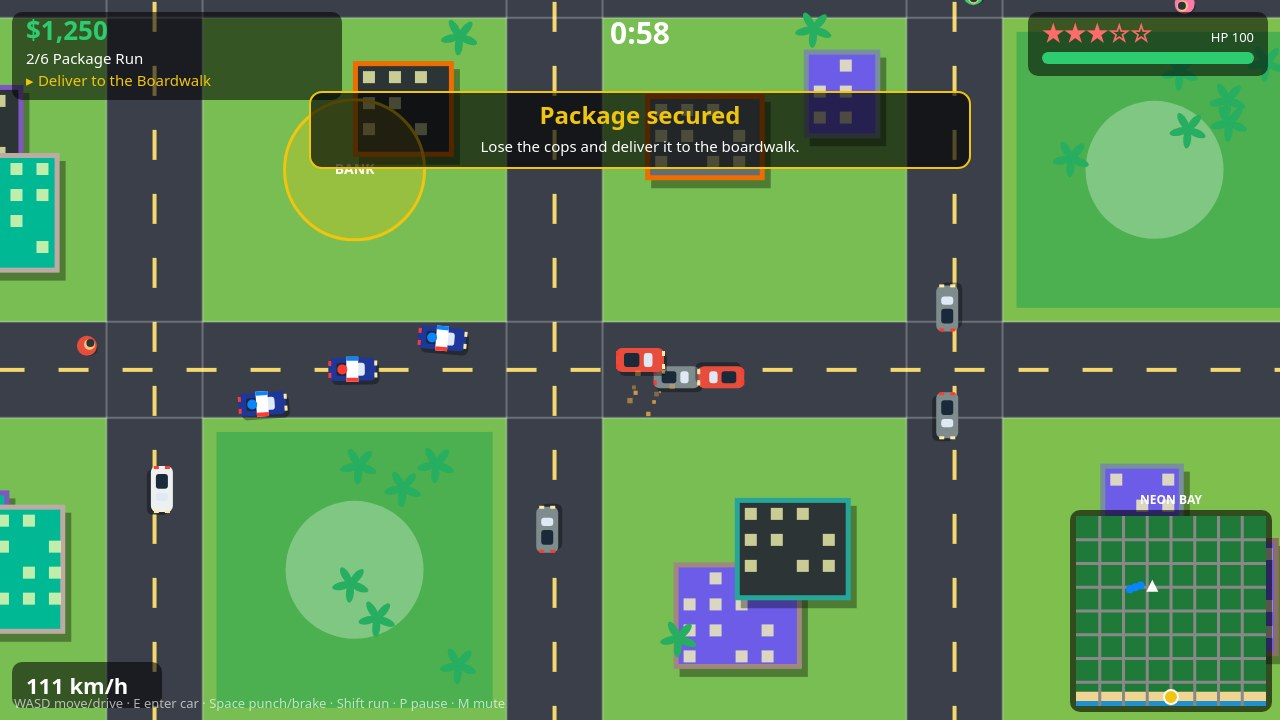
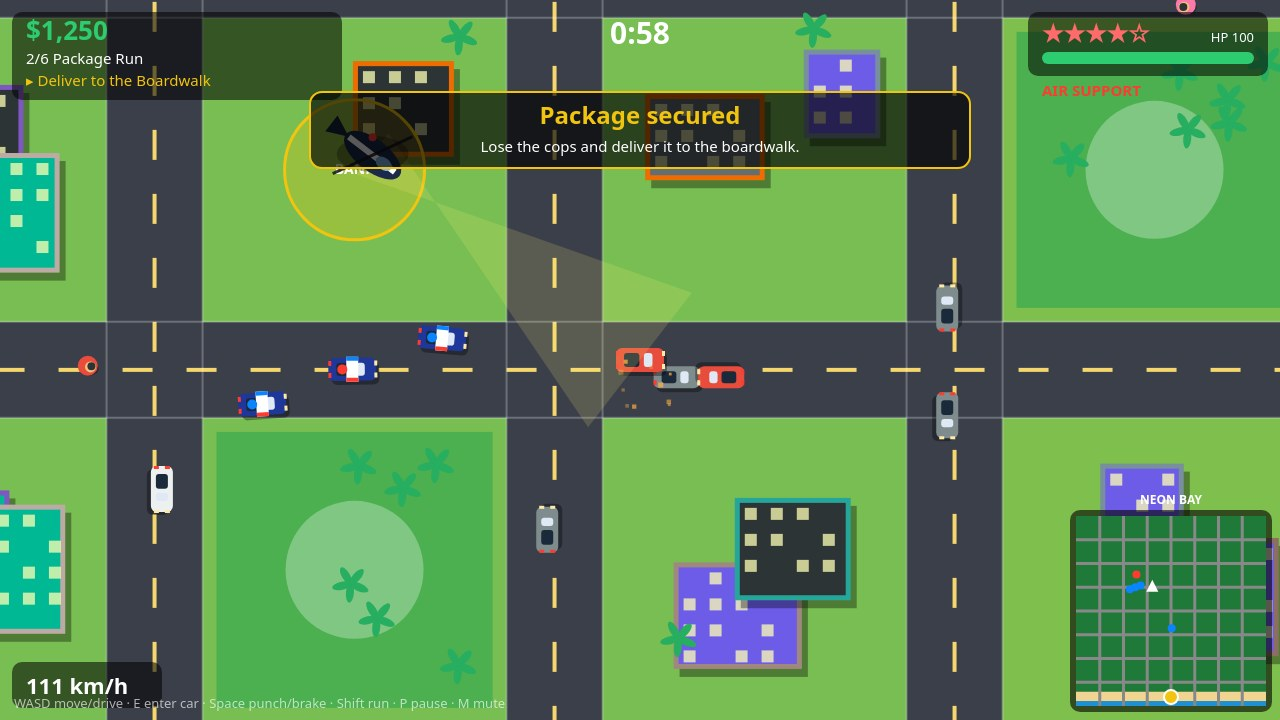
Neon Bay Heist round 2: police helicopter air support at 4-5 stars

diff --git a/game/src/render.js b/game/src/render.js
@@ -296,6 +296,8 @@ export class Renderer {
     } else if (pl.car) {
       drawCarShape(ctx, pl.x, pl.y, pl.angle, 48, 24, pl.car.color, false);
     }
+    // Police helicopters: top layer, above the player.
+    for (const h of game.helicopters) this.drawHelicopter(ctx, game, h);
     // Particles.
     for (const p of game.particles.list) {
       ctx.globalAlpha = clamp(p.life / p.max, 0, 1);
@@ -308,6 +310,70 @@ export class Renderer {
       this.text(t2.text, t2.x, t2.y, 20, t2.color, 'center', true);
     }
     ctx.globalAlpha = 1;
+  }
+
+  drawHelicopter(ctx, game, h) {
+    const pl = game.player;
+    const bob = Math.sin(h.bobPhase) * 6;
+    // Searchlight cone on the ground, from the helicopter toward the player.
+    const a = Math.atan2(pl.y - h.y, pl.x - h.x);
+    const perp = a + Math.PI / 2;
+    const nearW = 26;
+    const farW = 85;
+    const d = Math.hypot(pl.x - h.x, pl.y - h.y);
+    const ux = Math.cos(a);
+    const uy = Math.sin(a);
+    const px = Math.cos(perp);
+    const py = Math.sin(perp);
+    ctx.fillStyle = 'rgba(255, 235, 120, 0.16)';
+    ctx.beginPath();
+    ctx.moveTo(h.x + px * nearW, h.y + py * nearW);
+    ctx.lineTo(h.x - px * nearW, h.y - py * nearW);
+    ctx.lineTo(h.x + ux * d + px * farW, h.y + uy * d + py * farW);
+    ctx.lineTo(h.x + ux * d - px * farW, h.y + uy * d - py * farW);
+    ctx.closePath();
+    ctx.fill();
+    // Soft shadow ellipse on the ground.
+    ctx.fillStyle = 'rgba(0,0,0,0.28)';
+    ctx.beginPath();
+    ctx.ellipse(h.x, h.y, 36, 18, 0, 0, Math.PI * 2);
+    ctx.fill();
+    // Body: dark navy ellipse with tail fin and white stripe, bobbing in the air.
+    const by = h.y + bob;
+    ctx.save();
+    ctx.translate(h.x, by);
+    ctx.rotate(h.angle);
+    ctx.fillStyle = '#1b2a4a';
+    ctx.beginPath();
+    ctx.ellipse(0, 0, 34, 16, 0, 0, Math.PI * 2);
+    ctx.fill();
+    ctx.fillStyle = '#16223c';
+    ctx.beginPath();
+    ctx.moveTo(-30, 0);
+    ctx.lineTo(-52, -10);
+    ctx.lineTo(-52, 10);
+    ctx.closePath();
+    ctx.fill();
+    ctx.fillStyle = '#ffffff';
+    ctx.fillRect(-30, -3, 58, 6);
+    ctx.fillStyle = '#7fb8e8';
+    ctx.beginPath();
+    ctx.ellipse(14, 0, 9, 6, 0, 0, Math.PI * 2);
+    ctx.fill();
+    // Rotating rotor.
+    ctx.strokeStyle = 'rgba(20,20,30,0.85)';
+    ctx.lineWidth = 3;
+    ctx.beginPath();
+    ctx.moveTo(Math.cos(h.rotor) * -44, Math.sin(h.rotor) * -44);
+    ctx.lineTo(Math.cos(h.rotor) * 44, Math.sin(h.rotor) * 44);
+    ctx.stroke();
+    ctx.restore();
+    // Blinking red beacon.
+    const on = Math.sin(game.time * 8) > 0;
+    ctx.fillStyle = on ? '#ff3b30' : '#7a1f1a';
+    ctx.beginPath();
+    ctx.arc(h.x, by - 18, 4, 0, Math.PI * 2);
+    ctx.fill();
   }
 
   landmark(ctx, spot, color, label) {
@@ -354,6 +420,9 @@ export class Renderer {
     roundRect(ctx, CFG.canvasW - 238, 52, 212 * (p.health / CFG.maxHealth), 12, 6);
     ctx.fill();
     this.text(`HP ${Math.ceil(p.health)}`, CFG.canvasW - 26, 42, 13, '#ffffff', 'right');
+    if (game.helicopters.length > 0) {
+      this.text('AIR SUPPORT', CFG.canvasW - 238, 96, 15, '#ff3b30', 'left', true);
+    }
     // Mission timer.
     if (game.missions.phase === 'active' && game.missions.timer > 0) {
       const t = Math.ceil(game.missions.timer);
@@ -411,6 +480,12 @@ export class Renderer {
       ctx.fillStyle = '#0a84ff';
       ctx.beginPath();
       ctx.arc(x0 + pc.x * s, y0 + pc.y * s, 4, 0, Math.PI * 2);
+      ctx.fill();
+    }
+    for (const h of game.helicopters) {
+      ctx.fillStyle = '#ff3b30';
+      ctx.beginPath();
+      ctx.arc(x0 + h.x * s, y0 + h.y * s, 4, 0, Math.PI * 2);
       ctx.fill();
     }
     const p = game.player;
@@ -517,6 +592,7 @@ export class Renderer {
       'Space handbrake. Hitting pedestrians or cops raises heat.',
       'Police chase you while you have stars. Break line of sight',
       'to cool down, or reach the hideout with zero stars.',
+      'At 4 stars and above a police helicopter joins the chase — its searchlight keeps you spotted.',
       'Complete all 6 missions to own Neon Bay. Good luck, Dash.',
     ], [{ id: 'back', label: 'BACK' }]);
   }

diff --git a/game/src/main.js b/game/src/main.js
@@ -4,7 +4,7 @@
 import { CFG } from './config.js';
 import { Rng } from './random.js';
 import { City } from './world.js';
-import { Pedestrian, TrafficCar, PoliceCar } from './entities.js';
+import { Pedestrian, TrafficCar, PoliceCar, Helicopter } from './entities.js';
 import { Player } from './player.js';
 import { MissionManager } from './missions.js';
 import { Particles } from './particles.js';
@@ -26,6 +26,7 @@ export class Game {
     this.peds = [];
     this.traffic = [];
     this.police = [];
+    this.helicopters = [];
     this.particles = new Particles();
     this.sound = new SoundEngine();
     this.missions = new MissionManager(this);
@@ -69,6 +70,7 @@ export class Game {
   startNew() {
     this.player = new Player(this.city.garage.x + 120, this.city.garage.y + 40);
     this.police = [];
+    this.helicopters = [];
     this.particles = new Particles();
     this.missions = new MissionManager(this);
     this.state = 'playing';
@@ -206,6 +208,17 @@ export class Game {
     }
   }
 
+  updateHelicopters(dt) {
+    if (this.player.wanted >= 4) {
+      if (this.helicopters.length === 0) {
+        this.helicopters.push(new Helicopter(this.player.x - 300, this.player.y - 300, this.rng));
+      }
+    } else if (this.helicopters.length > 0) {
+      this.helicopters = [];
+    }
+    for (const h of this.helicopters) h.update(dt, this.player.x, this.player.y);
+  }
+
   update(dt) {
     this.time += dt;
     this.player.update(dt, this.input, this.city, this);
@@ -243,6 +256,7 @@ export class Game {
       }
     }
     this.updatePolice(dt);
+    this.updateHelicopters(dt);
     if (this.state !== 'playing') return;
     this.missions.update(dt);
     if (this.missionDelay > 0) {
@@ -323,8 +337,18 @@ export class Game {
       requestAnimationFrame(frame);
       acc += Math.min((now - last) / 1000, MAX_FRAME);
       last = now;
-      this.handleKeys();
-      this.handleMenuClick();
+      // If no fixed step will run this frame while playing, defer input
+      // handling to the next frame: endFrame() clears edge-triggered
+      // presses, so clearing on a step-less frame could drop a keypress
+      // (e.g. E to steal a car) before any update ever saw it. The gate
+      // uses the state at frame start: a press that flips paused -> playing
+      // must still be cleared on that same frame, or it would fire twice.
+      const wasPlaying = this.state === 'playing';
+      const willStep = wasPlaying && acc >= STEP;
+      if (!wasPlaying || willStep) {
+        this.handleKeys();
+        this.handleMenuClick();
+      }
       if (this.state === 'playing') {
         while (acc >= STEP) { this.update(STEP); acc -= STEP; }
       } else {
@@ -337,7 +361,7 @@ export class Game {
         }
       }
       this.renderer.draw(this);
-      this.input.endFrame();
+      if (!wasPlaying || willStep) this.input.endFrame();
     };
     requestAnimationFrame(frame);
   }

diff --git a/game/src/entities.js b/game/src/entities.js
@@ -116,3 +116,34 @@ export class PoliceCar {
     city.collideCircle(this, 20);
   }
 }
+
+// Police helicopter air support at wanted level 4-5. It hovers above the
+// player with lag and a searchlight; it never damages the player.
+export class Helicopter {
+  constructor(x, y, rng) {
+    this.x = x;
+    this.y = y;
+    this.angle = 0;
+    this.rotor = 0;
+    this.bobPhase = rng ? rng.next() * 6 : 0;
+  }
+  update(dt, tx, ty) {
+    // Chase a point offset from the player, with lag: slower than a fleeing car.
+    const hx = tx - 120;
+    const hy = ty - 120;
+    const dx = hx - this.x;
+    const dy = hy - this.y;
+    const d = Math.hypot(dx, dy);
+    const maxStep = 420 * dt;
+    if (d > 0) {
+      const step = Math.min(d, maxStep);
+      this.x += (dx / d) * step;
+      this.y += (dy / d) * step;
+    }
+    this.angle = Math.atan2(ty - this.y, tx - this.x);
+    this.rotor += dt * 25;
+    this.bobPhase += dt * 2;
+    this.x = clamp(this.x, 40, CFG.worldSize - 40);
+    this.y = clamp(this.y, 40, CFG.worldSize - 40);
+  }
+}

diff --git a/game/src/shots.js b/game/src/shots.js
@@ -77,13 +77,13 @@ export function stageShot(game, name) {
     game.banner('Mission complete!', 'Package Run — you earned $500.', 30);
     return;
   }
-  // Default: 'chase' — the cover shot. Driving fast east on the 1200 road, 3 stars,
-  // police on the tail, traffic ahead, mission marker on the minimap.
+  // Default: 'chase' — the cover shot. Driving fast east on the 1200 road, 4 stars,
+  // police on the tail, a helicopter overhead, traffic ahead, mission marker on the minimap.
   game.state = 'playing';
   givePlayerCar(game, 1200, 1200, 0, '#e74c3c');
   game.camera.x = 1200;
   game.camera.y = 1200;
-  p.addWanted(3);
+  p.addWanted(4);
   p.cash = 1250;
   game.missions.index = 1;
   game.missions.phase = 'active';

diff --git a/game/src/player.js b/game/src/player.js
@@ -35,7 +35,8 @@ export class Player {
     else this.updateDriving(dt, input, city, game);
     // Wanted decays only while no police can see the player.
     if (this.wanted > 0) {
-      const seen = game.police.some((p) => dist2(p.x, p.y, this.x, this.y) < 520 * 520);
+      const seen = game.police.some((p) => dist2(p.x, p.y, this.x, this.y) < 520 * 520)
+        || (game.helicopters || []).some((h) => dist2(h.x, h.y, this.x, this.y) < 700 * 700);
       if (seen) { this.unseenTimer = 0; this.wantedHeat = 1; }
       else {
         this.unseenTimer += dt;

diff --git a/README.md b/README.md
@@ -31,6 +31,7 @@ then open http://localhost:8080.
 - Open city to explore on foot and by car: roads, buildings, parks, beach and marina
 - Traffic cars and pedestrians, cars to steal and drive
 - Wanted level (0–5 stars) with police pursuit cars, sirens and ramming
+- Police helicopter air support at 4-5 stars: a searchlight tracks you and your wanted level stops cooling down while it is overhead
 - Six story missions: deliveries, getaways, fares, a chase and a bank heist
 - HUD with cash, health, wanted stars, mission timer and a live minimap
 - Combat (punch), particles, skid marks, synthesized WebAudio sound and music
